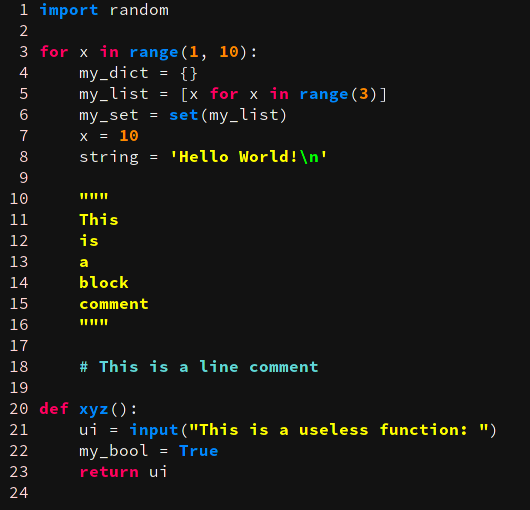
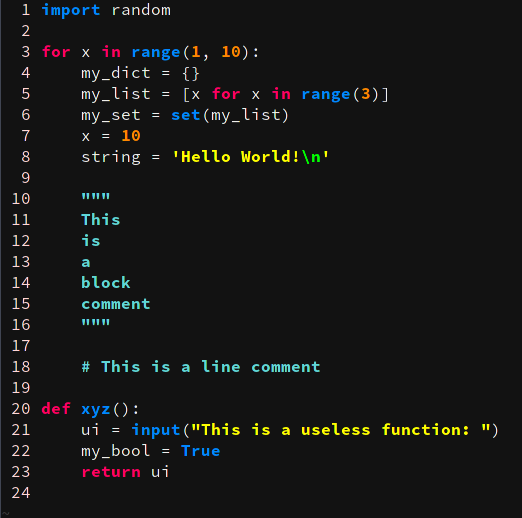
update readme and python code example

Changed region(s): [[0.0, 0.0, 0.9502, 1.0], [0.1533, 0.3529, 0.3065, 0.6471], [0.1533, 0.6765, 0.613, 0.7353]]

diff --git a/README.md b/README.md
@@ -1,12 +1,16 @@
 # pynux
 This is my custom vim colorscheme, I really liked the [cobalt colorscheme](https://github.com/sfsekaran/cobalt.vim), but wanted to change some of the colors around for my own personal preferenes, so I simply messed around with that file.
 
-Just add pynux.vim to your ~/.vim/colors folder and add the following lines to your ~/.vimrc:
+Just add colors/pynux.vim to your ~/.vim/colors folder and add the following lines to your ~/.vimrc:
+
 
 ```
 syntax on
 colorscheme pynux
 ``` 
+
+If you use python and want the block comments to be colored correctly, add 
+after/syntax/python.vim to your ~/.vim/after/syntax folder.
 
 Also I didn't extensively look into every category, so if you find anything 
 ugly or inconsistent, let me know and I will fix it!
